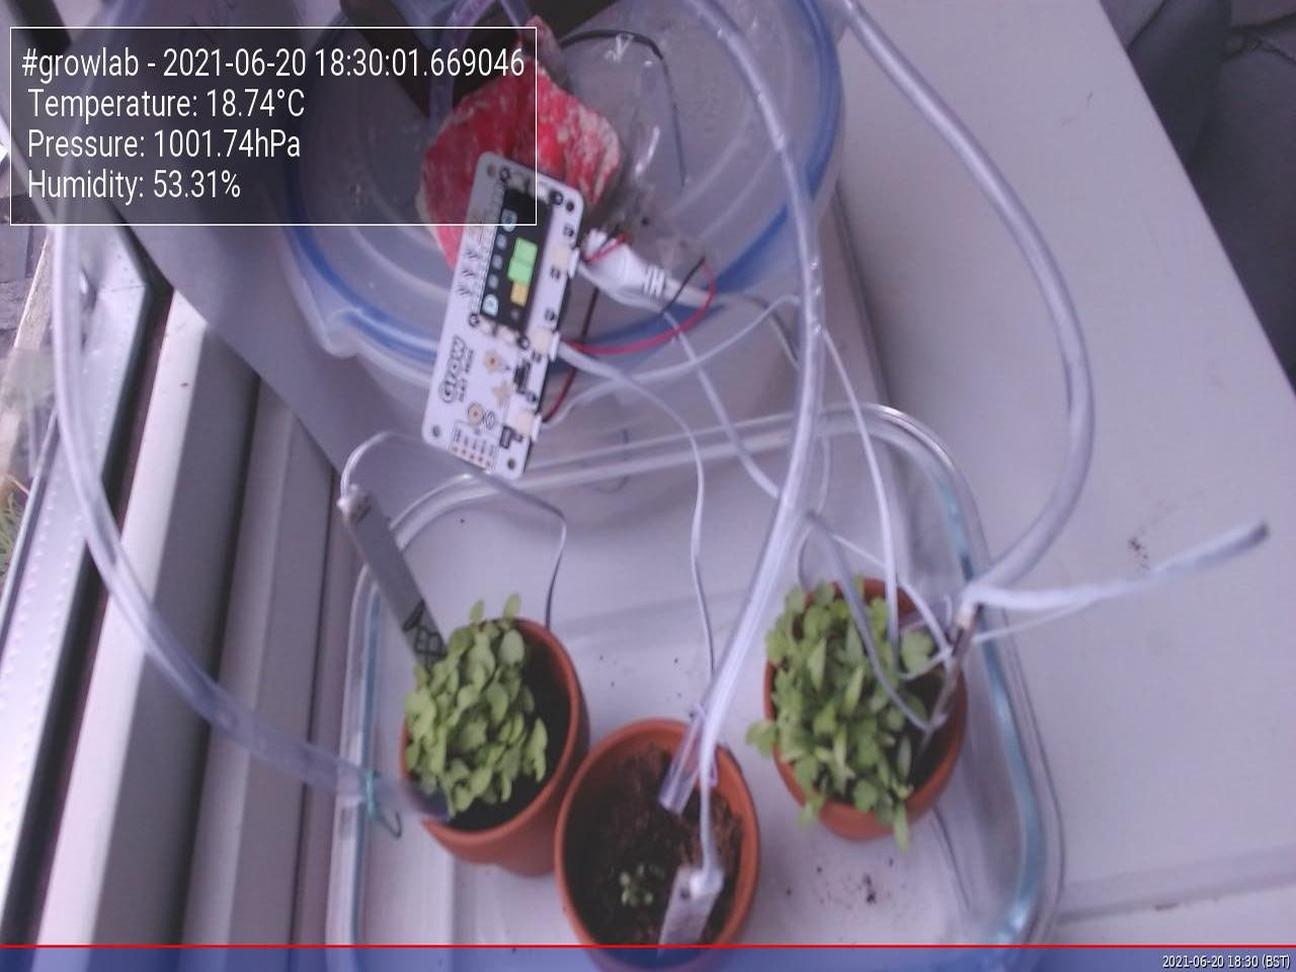
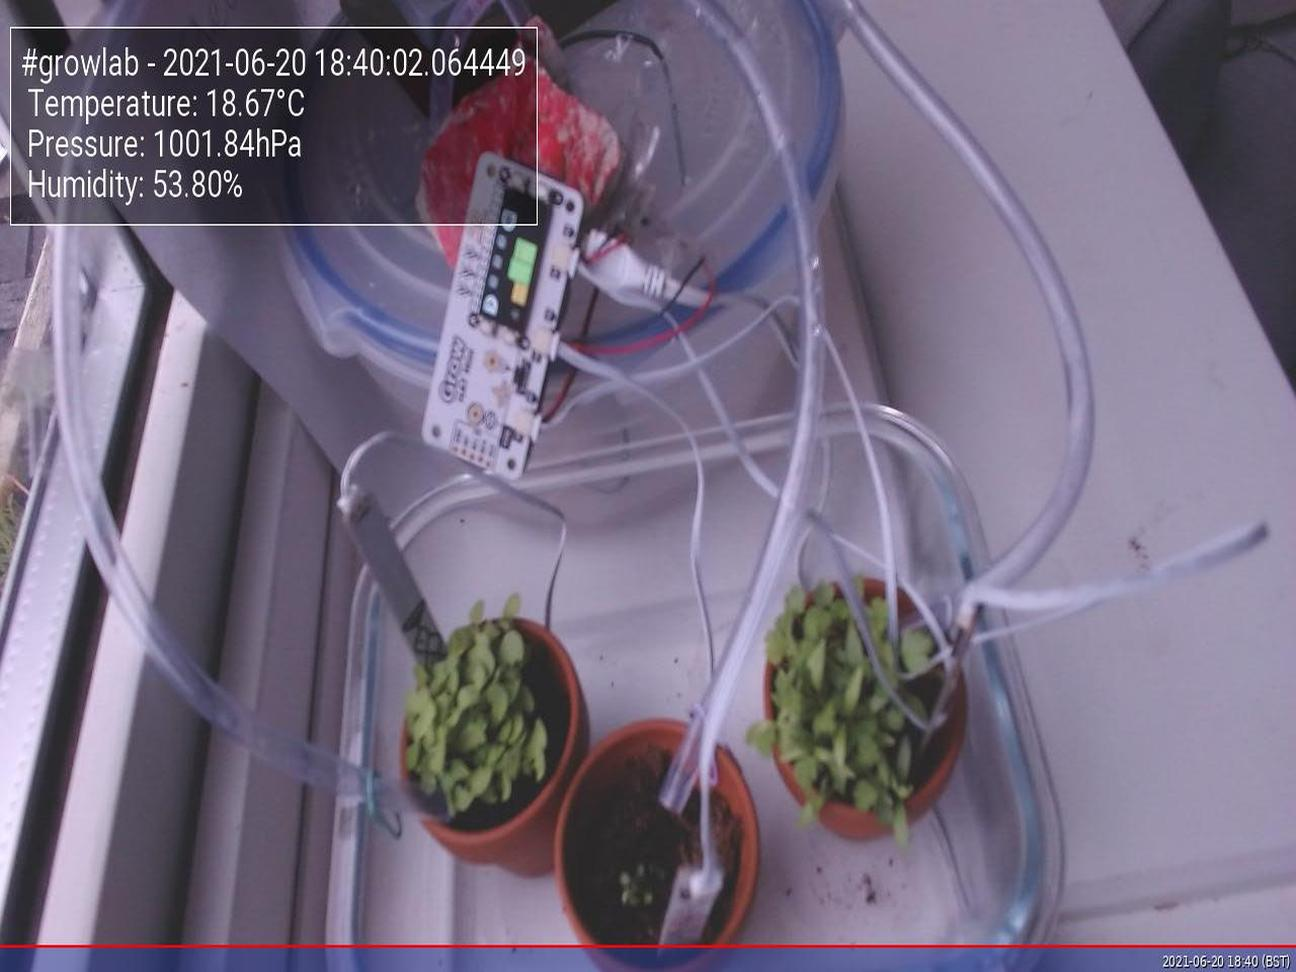
Update images at Sun 20 Jun 18:40:05 BST 2021

diff --git a/app/docs/index.html b/app/docs/index.html
@@ -47,19 +47,19 @@
                         <tbody>
                             <tr>
                                 <td>Time</td>
-                                <td>2021-06-20 18:30:01.669046</td>
+                                <td>2021-06-20 18:40:02.064449</td>
                             </tr>
                             <tr>
                                 <td>Temperature</td>
-                                <td>18.74°C</td>
+                                <td>18.67°C</td>
                             </tr>
                             <tr>
                                 <td>Humidity</td>
-                                <td>53.31%</td>
+                                <td>53.80%</td>
                             </tr>
                             <tr>
                                 <td>Pressure</td>
-                                <td>1001.74hPa</td>
+                                <td>1001.84hPa</td>
                             </tr>
                         </tbody>
                     </table>
@@ -67,7 +67,7 @@
 
                 <h5>Latest image</h5>
                 <div style="width: 85%;">
-                            <img class="figure-img img-fluid rounded" src="./preview.jpg?uid=1624210205.3956647">
+                            <img class="figure-img img-fluid rounded" src="./preview.jpg?uid=1624210805.832499">
                 </div>
             </div>
         </div>
